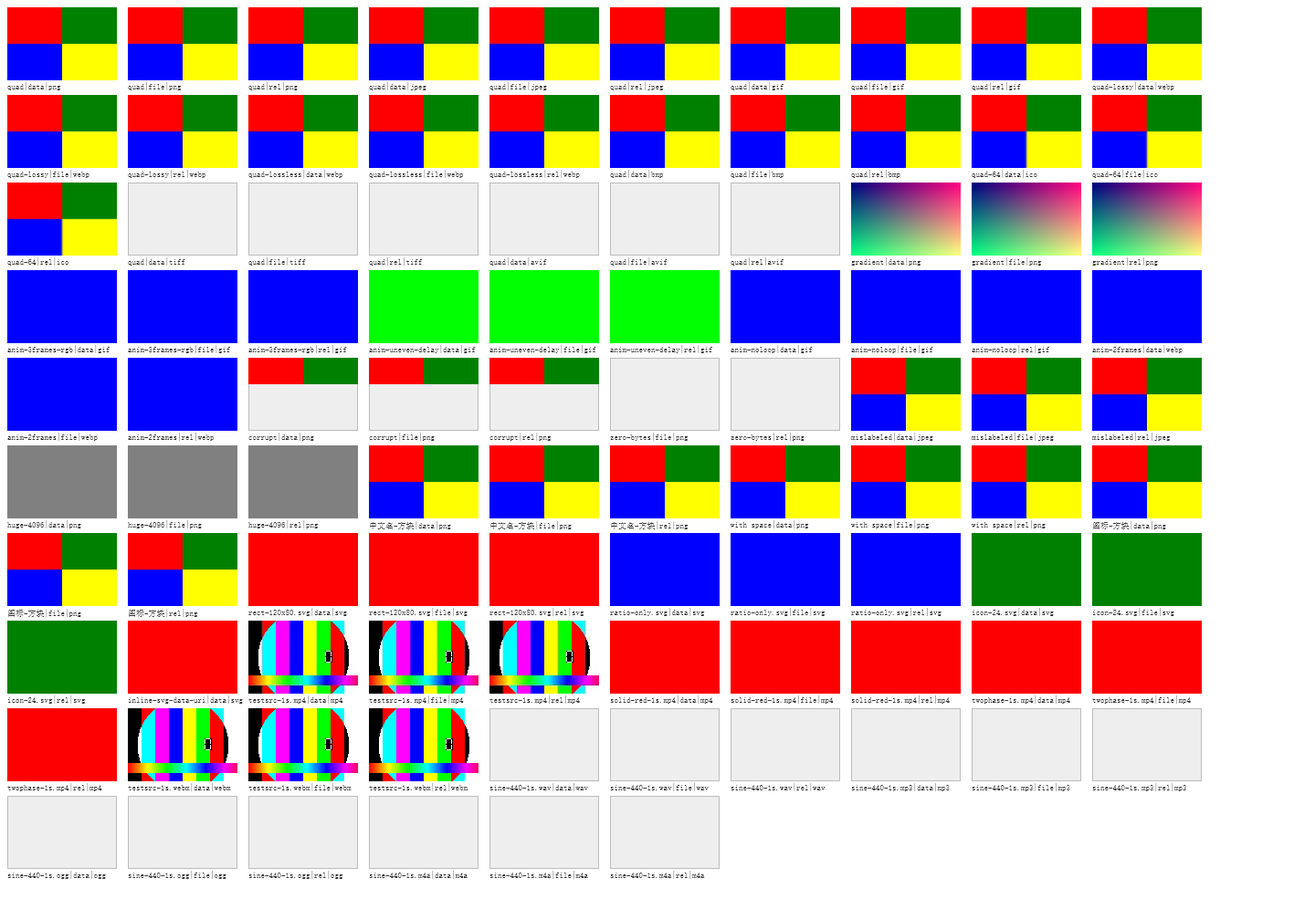
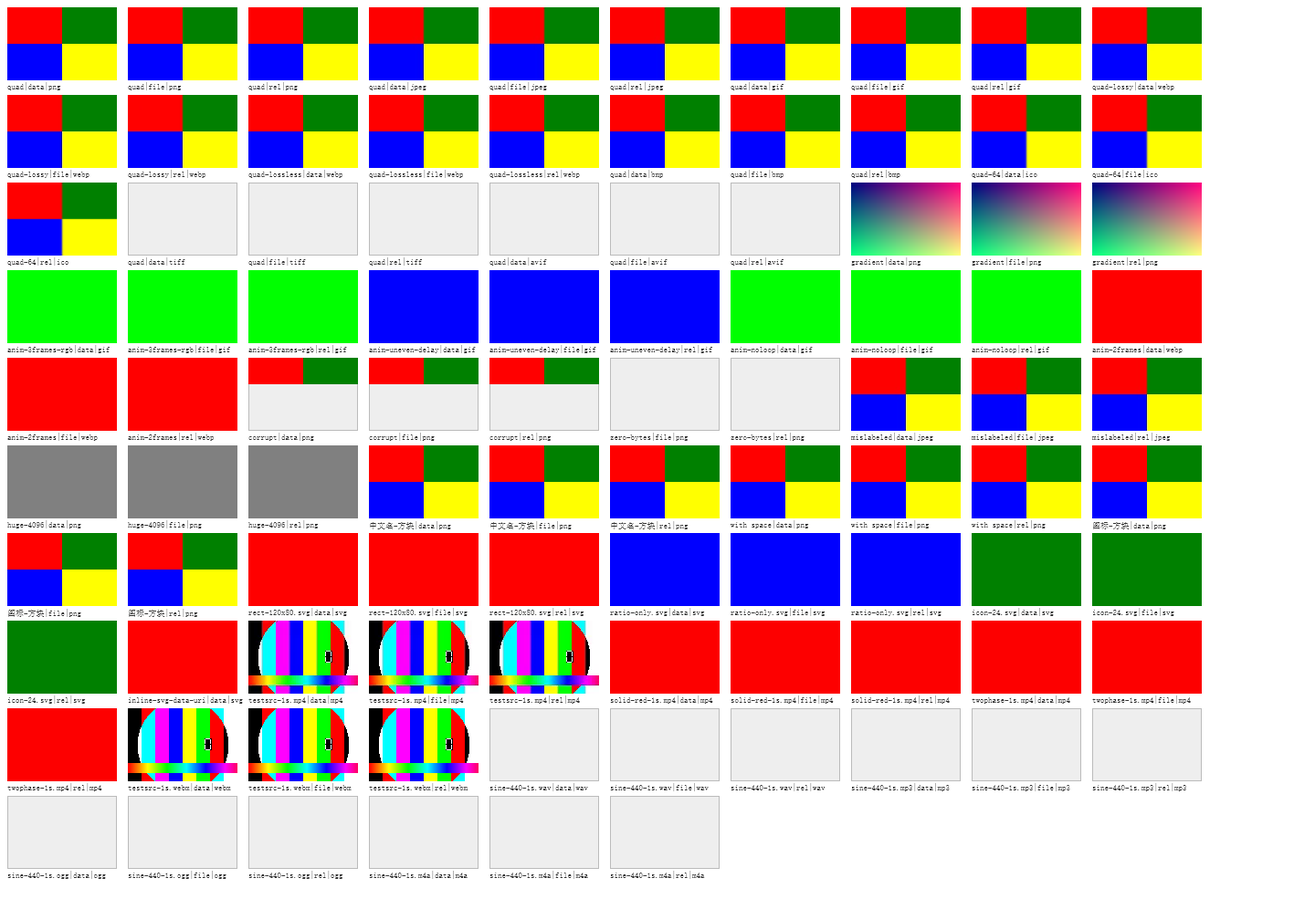
产物入库口径消解 + 媒体验证证据入库（决策 5 修订）：含运行抖动数值
## 1. 消解「文档说不入库、git 却跟踪」的两义状态（决策 5 二选一）

裁定：**样本不入库；报告与四配置截图（含几何/基线）作为验收证据入库**。

证据链（全部可核查）：
- 时间线：`896c670`(04:43) 在文档写入「报告仅作本地产物、仓库不动」；**43 分钟后**的
  `c5fe57d`(05:26) 实际把报告 + 四配置截图 + 逐格几何入库，并开 `.gitignore` 例外，提交信息
  明确把「决策 5」限定给**样本**（「样本本地生成不入库，决策 5」+「out/：…（证据入库）」）。
- 此后 20+ 次产物提交（7d03ede/81b2e1d/33a1062/0f4cd10/16daf3c/309d7a4…）沿用同一口径。
- 即：§0.1 的「报告仓库不动」**从未被执行过一次**，而「报告/截图/基线入库」被执行了 20+ 次。
- 理由：§6.3 证据纪律要求「每条用例留下几何 JSON + 截图 + 事件计数」，这些产物即判定依据，
  不入库则等级判定不可复核；样本是可再生的中间物（固定参数 + 入库脚本即可复现），故样本不入库。

文档同步修正 **13 处**（§0.1 决策 5 行、§9.1 修订注、§3.4、§6.2 第 1 条、§6.4 第 2/5 条、§8.2 阶段 0、
§8.3 两处、§10 的 Q1 行与「丙10」条目、附录注），`.gitignore` 注释同步。
验收：旧措辞逐条 grep = 0（「报告产物到 dev/media/out/（同样忽略）」「报告为本地产物（不入库…）」
「报告与四配置截图同为本地生成产物、不入库」「本地产物，不入库」「报告仅作本地产物，仓库不动」）。

## 2. ⚠ 副作用实测：重跑必产生 diff（提交时知情）

- **报告数值**：重跑 628 行中 **140 行变化** = 报告头 4（日期/commit）+ 播放时钟 122（描述行 60 +
  判据表 62）+ 像素比例 2 + 环回 4 = 抖动 132；另 **8 行是 Q7-B 备注修正的真实内容变化**
  （corrupt.png / zero-bytes.png 归因）。
- **截图像素**：`matrix-Browser.png` / `matrix-Toolkit-DenyExternal.png` 各 **1.98%**、
  两张播放态各 **5.95%**，最大通道差 **255**（整格换色）。
- **根因（本轮新发现）**：逐格定位后，差异格 = `anim-uneven-delay|{data,file,rel}|gif` 等**动画格**，
  即 §9.9 的**动图采样伪影**——当前采样为全局固定步长，与各动图自身帧时长不同步，每次截到不同帧。
  **非解码缺陷**（同页 `quad.*` 等静止样本逐像素不变）。此发现把 Q7-C 的影响面从报告数值
  扩大到截图产物本身。

## 3. 本轮产物

- `dev/media/out/report.md`：`cmd/psai -media` 重跑，**与基线一致（无等级下降）**；含 Q7-B 备注修正
  （`DenyExternal × file/rel` 的 corrupt.png / zero-bytes.png 备注 → 「资源策略 deny-external 拒绝该引用
  （预期，非缺陷）」）。
[…]

Changed region(s): [[0.0, 0.2768, 0.9375, 0.4921]]

diff --git a/dev/media/out/report.md b/dev/media/out/report.md
@@ -1,8 +1,8 @@
-# 媒体格式真实可用性报告（2026-10-07 20:16 16daf3c）
+# 媒体格式真实可用性报告（2026-10-07 22:00 bc62320）
 
 ## 环境
 
-配置：Browser / Toolkit+DenyExternal / Toolkit+AllowHostResolved / Toolkit+AllowAll ｜ 引擎：16daf3c ｜ 样本：本地脚本生成、不入库（决策 5）｜ 模型：L0–L4（文档 §2）
+配置：Browser / Toolkit+DenyExternal / Toolkit+AllowHostResolved / Toolkit+AllowAll ｜ 引擎：bc62320 ｜ 样本：本地脚本生成、不入库（决策 5）｜ 模型：L0–L4（文档 §2）
 
 复现：`python dev/media/gen_samples.py` → `cmd/psai -media`（本机按需，不入 CI 门禁——决策 6）
 
@@ -66,11 +66,11 @@
 | Toolkit+AllowHostResolved | png | corrupt.png | data | ✅ | ✅ | ❌ | ✅ | — | **L0** | 失败路径：未绘制，但 onerror 未派发（契约缺陷） |
 | Toolkit+AllowAll | png | corrupt.png | data | ✅ | ✅ | ❌ | ✅ | — | **L0** | 失败路径：未绘制，但 onerror 未派发（契约缺陷） |
 | Browser | png | corrupt.png | file | ✅ | ✅ | ❌ | ✅ | — | **L0** | 失败路径：未绘制，但 onerror 未派发（契约缺陷） |
-| Toolkit+DenyExternal | png | corrupt.png | file | ❌ | ❌ | ❌ | ❌ | — | **L0** | 失败路径：未绘制，但 onerror 未派发（契约缺陷） |
+| Toolkit+DenyExternal | png | corrupt.png | file | ❌ | ❌ | ❌ | ❌ | — | **L0** | 资源策略 deny-external 拒绝该引用（预期，非缺陷） |
 | Toolkit+AllowHostResolved | png | corrupt.png | file | ✅ | ✅ | ❌ | ✅ | — | **L0** | 失败路径：未绘制，但 onerror 未派发（契约缺陷） |
 | Toolkit+AllowAll | png | corrupt.png | file | ✅ | ✅ | ❌ | ✅ | — | **L0** | 失败路径：未绘制，但 onerror 未派发（契约缺陷） |
 | Browser | png | corrupt.png | rel | ✅ | ✅ | ❌ | ✅ | — | **L0** | 失败路径：未绘制，但 onerror 未派发（契约缺陷） |
-| Toolkit+DenyExternal | png | corrupt.png | rel | ❌ | ❌ | ❌ | ❌ | — | **L0** | 失败路径：未绘制，但 onerror 未派发（契约缺陷） |
+| Toolkit+DenyExternal | png | corrupt.png | rel | ❌ | ❌ | ❌ | ❌ | — | **L0** | 资源策略 deny-external 拒绝该引用（预期，非缺陷） |
 | Toolkit+AllowHostResolved | png | corrupt.png | rel | ✅ | ✅ | ❌ | ✅ | — | **L0** | 失败路径：未绘制，但 onerror 未派发（契约缺陷） |
 | Toolkit+AllowAll | png | corrupt.png | rel | ✅ | ✅ | ❌ | ✅ | — | **L0** | 失败路径：未绘制，但 onerror 未派发（契约缺陷） |
 | Browser | png | gradient.png | data | ✅ | ✅ | ✅ | ✅ | — | **L3** |  |
@@ -257,54 +257,54 @@
 | Toolkit+DenyExternal | svg | rect-120x80.svg | rel | ❌ | ❌ | ❌ | ❌ | — | **L0** | 资源策略 deny-external 拒绝该引用（预期，非缺陷） |
 | Toolkit+AllowHostResolved | svg | rect-120x80.svg | rel | ✅ | ✅ | ✅ | ✅ | — | **L3** |  |
 | Toolkit+AllowAll | svg | rect-120x80.svg | rel | ✅ | ✅ | ✅ | ✅ | — | **L3** |  |
-| Browser | m4a | sine-440-1s.m4a | data | ✅ | ✅ | — | ✅ | — | **L4** | 音频输出：交付 49041 帧、PCM 主峰 439.88Hz（期望 440Hz，判据 A）；play() 后 500ms currentTime=0.31s、结束时 1.00s（TC-M-602） |
+| Browser | m4a | sine-440-1s.m4a | data | ✅ | ✅ | — | ✅ | — | **L4** | 音频输出：交付 49041 帧、PCM 主峰 439.88Hz（期望 440Hz，判据 A）；play() 后 500ms currentTime=0.47s、结束时 1.00s（TC-M-602） |
 | Toolkit+DenyExternal | m4a | sine-440-1s.m4a | data | ✅ | ✅ | — | ✅ | — | **L4** | 音频输出：交付 49041 帧、PCM 主峰 439.88Hz（期望 440Hz，判据 A）；play() 后 500ms currentTime=1.00s、结束时 1.00s（TC-M-602） |
-| Toolkit+AllowHostResolved | m4a | sine-440-1s.m4a | data | ✅ | ✅ | — | ✅ | — | **L4** | 音频输出：交付 49041 帧、PCM 主峰 439.88Hz（期望 440Hz，判据 A）；play() 后 500ms currentTime=0.25s、结束时 1.00s（TC-M-602） |
-| Toolkit+AllowAll | m4a | sine-440-1s.m4a | data | ✅ | ✅ | — | ✅ | — | **L4** | 音频输出：交付 49041 帧、PCM 主峰 439.88Hz（期望 440Hz，判据 A）；play() 后 500ms currentTime=0.26s、结束时 1.00s（TC-M-602） |
-| Browser | m4a | sine-440-1s.m4a | file | ✅ | ✅ | — | ✅ | — | **L4** | 音频输出：交付 49041 帧、PCM 主峰 439.88Hz（期望 440Hz，判据 A）；play() 后 500ms currentTime=0.21s、结束时 1.00s（TC-M-602） |
+| Toolkit+AllowHostResolved | m4a | sine-440-1s.m4a | data | ✅ | ✅ | — | ✅ | — | **L4** | 音频输出：交付 49041 帧、PCM 主峰 439.88Hz（期望 440Hz，判据 A）；play() 后 500ms currentTime=0.49s、结束时 1.00s（TC-M-602） |
+| Toolkit+AllowAll | m4a | sine-440-1s.m4a | data | ✅ | ✅ | — | ✅ | — | **L4** | 音频输出：交付 49041 帧、PCM 主峰 439.88Hz（期望 440Hz，判据 A）；play() 后 500ms currentTime=0.49s、结束时 1.00s（TC-M-602） |
+| Browser | m4a | sine-440-1s.m4a | file | ✅ | ✅ | — | ✅ | — | **L4** | 音频输出：交付 49041 帧、PCM 主峰 439.88Hz（期望 440Hz，判据 A）；play() 后 500ms currentTime=0.27s、结束时 1.00s（TC-M-602） |
 | Toolkit+DenyExternal | m4a | sine-440-1s.m4a | file | ❌ | ❌ | — | ❌ | — | **L0** | 资源策略 deny-external 拒绝该引用（预期，非缺陷）；实测元素 error.code=4（MEDIA_ERR_SRC_NOT_SUPPORTED） |
-| Toolkit+AllowHostResolved | m4a | sine-440-1s.m4a | file | ✅ | ✅ | — | ✅ | — | **L4** | 音频输出：交付 49041 帧、PCM 主峰 439.88Hz（期望 440Hz，判据 A）；play() 后 500ms currentTime=0.21s、结束时 1.00s（TC-M-602） |
-| Toolkit+AllowAll | m4a | sine-440-1s.m4a | file | ✅ | ✅ | — | ✅ | — | **L4** | 音频输出：交付 49041 帧、PCM 主峰 439.88Hz（期望 440Hz，判据 A）；play() 后 500ms currentTime=0.20s、结束时 1.00s（TC-M-602） |
+| Toolkit+AllowHostResolved | m4a | sine-440-1s.m4a | file | ✅ | ✅ | — | ✅ | — | **L4** | 音频输出：交付 49041 帧、PCM 主峰 439.88Hz（期望 440Hz，判据 A）；play() 后 500ms currentTime=0.26s、结束时 1.00s（TC-M-602） |
+| Toolkit+AllowAll | m4a | sine-440-1s.m4a | file | ✅ | ✅ | — | ✅ | — | **L4** | 音频输出：交付 49041 帧、PCM 主峰 439.88Hz（期望 440Hz，判据 A）；play() 后 500ms currentTime=0.29s、结束时 1.00s（TC-M-602） |
 | Browser | m4a | sine-440-1s.m4a | rel | ✅ | ✅ | — | ✅ | — | **L4** | 音频输出：交付 49041 帧、PCM 主峰 439.88Hz（期望 440Hz，判据 A）；play() 后 500ms currentTime=0.00s、结束时 1.00s（TC-M-602） |
 | Toolkit+DenyExternal | m4a | sine-440-1s.m4a | rel | ❌ | ❌ | — | ❌ | — | **L0** | 资源策略 deny-external 拒绝该引用（预期，非缺陷）；实测元素 error.code=4（MEDIA_ERR_SRC_NOT_SUPPORTED） |
 | Toolkit+AllowHostResolved | m4a | sine-440-1s.m4a | rel | ✅ | ✅ | — | ✅ | — | **L4** | 音频输出：交付 49041 帧、PCM 主峰 439.88Hz（期望 440Hz，判据 A）；play() 后 500ms currentTime=0.00s、结束时 1.00s（TC-M-602） |
 | Toolkit+AllowAll | m4a | sine-440-1s.m4a | rel | ✅ | ✅ | — | ✅ | — | **L4** | 音频输出：交付 49041 帧、PCM 主峰 439.88Hz（期望 440Hz，判据 A）；play() 后 500ms currentTime=0.00s、结束时 1.00s（TC-M-602） |
-| Browser | mp3 | sine-440-1s.mp3 | data | ✅ | ✅ | — | ✅ | — | **L4** | 音频输出：交付 48000 帧、PCM 主峰 439.88Hz（期望 440Hz，判据 A）；play() 后 500ms currentTime=0.82s、结束时 1.00s（TC-M-602） |
+| Browser | mp3 | sine-440-1s.mp3 | data | ✅ | ✅ | — | ✅ | — | **L4** | 音频输出：交付 48000 帧、PCM 主峰 439.88Hz（期望 440Hz，判据 A）；play() 后 500ms currentTime=1.00s、结束时 1.00s（TC-M-602） |
 | Toolkit+DenyExternal | mp3 | sine-440-1s.mp3 | data | ✅ | ✅ | — | ✅ | — | **L4** | 音频输出：交付 48000 帧、PCM 主峰 439.88Hz（期望 440Hz，判据 A）；play() 后 500ms currentTime=1.00s、结束时 1.00s（TC-M-602） |
-| Toolkit+AllowHostResolved | mp3 | sine-440-1s.mp3 | data | ✅ | ✅ | — | ✅ | — | **L4** | 音频输出：交付 48000 帧、PCM 主峰 439.88Hz（期望 440Hz，判据 A）；play() 后 500ms currentTime=0.76s、结束时 1.00s（TC-M-602） |
-| Toolkit+AllowAll | mp3 | sine-440-1s.mp3 | data | ✅ | ✅ | — | ✅ | — | **L4** | 音频输出：交付 48000 帧、PCM 主峰 439.88Hz（期望 440Hz，判据 A）；play() 后 500ms currentTime=0.76s、结束时 1.00s（TC-M-602） |
-| Browser | mp3 | sine-440-1s.mp3 | file | ✅ | ✅ | — | ✅ | — | **L4** | 音频输出：交付 48000 帧、PCM 主峰 439.88Hz（期望 440Hz，判据 A）；play() 后 500ms currentTime=0.73s、结束时 1.00s（TC-M-602） |
+| Toolkit+AllowHostResolved | mp3 | sine-440-1s.mp3 | data | ✅ | ✅ | — | ✅ | — | **L4** | 音频输出：交付 48000 帧、PCM 主峰 439.88Hz（期望 440Hz，判据 A）；play() 后 500ms currentTime=1.00s、结束时 1.00s（TC-M-602） |
+| Toolkit+AllowAll | mp3 | sine-440-1s.mp3 | data | ✅ | ✅ | — | ✅ | — | **L4** | 音频输出：交付 48000 帧、PCM 主峰 439.88Hz（期望 440Hz，判据 A）；play() 后 500ms currentTime=1.00s、结束时 1.00s（TC-M-602） |
+| Browser | mp3 | sine-440-1s.mp3 | file | ✅ | ✅ | — | ✅ | — | **L4** | 音频输出：交付 48000 帧、PCM 主峰 439.88Hz（期望 440Hz，判据 A）；play() 后 500ms currentTime=1.00s、结束时 1.00s（TC-M-602） |
 | Toolkit+DenyExternal | mp3 | sine-440-1s.mp3 | file | ❌ | ❌ | — | ❌ | — | **L0** | 资源策略 deny-external 拒绝该引用（预期，非缺陷）；实测元素 error.code=4（MEDIA_ERR_SRC_NOT_SUPPORTED） |
-| Toolkit+AllowHostResolved | mp3 | sine-440-1s.mp3 | file | ✅ | ✅ | — | ✅ | — | **L4** | 音频输出：交付 48000 帧、PCM 主峰 439.88Hz（期望 440Hz，判据 A）；play() 后 500ms currentTime=0.68s、结束时 1.00s（TC-M-602） |
-| Toolkit+AllowAll | mp3 | sine-440-1s.mp3 | file | ✅ | ✅ | — | ✅ | — | **L4** | 音频输出：交付 48000 帧、PCM 主峰 439.88Hz（期望 440Hz，判据 A）；play() 后 500ms currentTime=0.69s、结束时 1.00s（TC-M-602） |
-| Browser | mp3 | sine-440-1s.mp3 | rel | ✅ | ✅ | — | ✅ | — | **L4** | 音频输出：交付 48000 帧、PCM 主峰 439.88Hz（期望 440Hz，判据 A）；play() 后 500ms currentTime=0.65s、结束时 1.00s（TC-M-602） |
+| Toolkit+AllowHostResolved | mp3 | sine-440-1s.mp3 | file | ✅ | ✅ | — | ✅ | — | **L4** | 音频输出：交付 48000 帧、PCM 主峰 439.88Hz（期望 440Hz，判据 A）；play() 后 500ms currentTime=1.00s、结束时 1.00s（TC-M-602） |
+| Toolkit+AllowAll | mp3 | sine-440-1s.mp3 | file | ✅ | ✅ | — | ✅ | — | **L4** | 音频输出：交付 48000 帧、PCM 主峰 439.88Hz（期望 440Hz，判据 A）；play() 后 500ms currentTime=1.00s、结束时 1.00s（TC-M-602） |
+| Browser | mp3 | sine-440-1s.mp3 | rel | ✅ | ✅ | — | ✅ | — | **L4** | 音频输出：交付 48000 帧、PCM 主峰 439.88Hz（期望 440Hz，判据 A）；play() 后 500ms currentTime=1.00s、结束时 1.00s（TC-M-602） |
 | Toolkit+DenyExternal | mp3 | sine-440-1s.mp3 | rel | ❌ | ❌ | — | ❌ | — | **L0** | 资源策略 deny-external 拒绝该引用（预期，非缺陷）；实测元素 error.code=4（MEDIA_ERR_SRC_NOT_SUPPORTED） |
-| Toolkit+AllowHostResolved | mp3 | sine-440-1s.mp3 | rel | ✅ | ✅ | — | ✅ | — | **L4** | 音频输出：交付 48000 帧、PCM 主峰 439.88Hz（期望 440Hz，判据 A）；play() 后 500ms currentTime=0.60s、结束时 1.00s（TC-M-602） |
-| Toolkit+AllowAll | mp3 | sine-440-1s.mp3 | rel | ✅ | ✅ | — | ✅ | — | **L4** | 音频输出：交付 48000 帧、PCM 主峰 439.88Hz（期望 440Hz，判据 A）；play() 后 500ms currentTime=0.61s、结束时 1.00s（TC-M-602） |
-| Browser | ogg | sine-440-1s.ogg | data | ✅ | ✅ | — | ✅ | — | **L4** | 音频输出：交付 47861 帧、PCM 主峰 439.87Hz（期望 440Hz，判据 A）；play() 后 500ms currentTime=0.56s、结束时 1.00s（TC-M-602） |
+| Toolkit+AllowHostResolved | mp3 | sine-440-1s.mp3 | rel | ✅ | ✅ | — | ✅ | — | **L4** | 音频输出：交付 48000 帧、PCM 主峰 439.88Hz（期望 440Hz，判据 A）；play() 后 500ms currentTime=1.00s、结束时 1.00s（TC-M-602） |
+| Toolkit+AllowAll | mp3 | sine-440-1s.mp3 | rel | ✅ | ✅ | — | ✅ | — | **L4** | 音频输出：交付 48000 帧、PCM 主峰 439.88Hz（期望 440Hz，判据 A）；play() 后 500ms currentTime=1.00s、结束时 1.00s（TC-M-602） |
+| Browser | ogg | sine-440-1s.ogg | data | ✅ | ✅ | — | ✅ | — | **L4** | 音频输出：交付 47861 帧、PCM 主峰 439.87Hz（期望 440Hz，判据 A）；play() 后 500ms currentTime=1.00s、结束时 1.00s（TC-M-602） |
 | Toolkit+DenyExternal | ogg | sine-440-1s.ogg | data | ✅ | ✅ | — | ✅ | — | **L4** | 音频输出：交付 47861 帧、PCM 主峰 439.87Hz（期望 440Hz，判据 A）；play() 后 500ms currentTime=1.00s、结束时 1.00s（TC-M-602） |
-| Toolkit+AllowHostResolved | ogg | sine-440-1s.ogg | data | ✅ | ✅ | — | ✅ | — | **L4** | 音频输出：交付 47861 帧、PCM 主峰 439.87Hz（期望 440Hz，判据 A）；play() 后 500ms currentTime=0.52s、结束时 1.00s（TC-M-602） |
-| Toolkit+AllowAll | ogg | sine-440-1s.ogg | data | ✅ | ✅ | — | ✅ | — | **L4** | 音频输出：交付 47861 帧、PCM 主峰 439.87Hz（期望 440Hz，判据 A）；play() 后 500ms currentTime=0.54s、结束时 1.00s（TC-M-602） |
-| Browser | ogg | sine-440-1s.ogg | file | ✅ | ✅ | — | ✅ | — | **L4** | 音频输出：交付 47861 帧、PCM 主峰 439.87Hz（期望 440Hz，判据 A）；play() 后 500ms currentTime=0.46s、结束时 1.00s（TC-M-602） |
+| Toolkit+AllowHostResolved | ogg | sine-440-1s.ogg | data | ✅ | ✅ | — | ✅ | — | **L4** | 音频输出：交付 47861 帧、PCM 主峰 439.87Hz（期望 440Hz，判据 A）；play() 后 500ms currentTime=1.00s、结束时 1.00s（TC-M-602） |
+| Toolkit+AllowAll | ogg | sine-440-1s.ogg | data | ✅ | ✅ | — | ✅ | — | **L4** | 音频输出：交付 47861 帧、PCM 主峰 439.87Hz（期望 440Hz，判据 A）；play() 后 500ms currentTime=1.00s、结束时 1.00s（TC-M-602） |
+| Browser | ogg | sine-440-1s.ogg | file | ✅ | ✅ | — | ✅ | — | **L4** | 音频输出：交付 47861 帧、PCM 主峰 439.87Hz（期望 440Hz，判据 A）；play() 后 500ms currentTime=0.82s、结束时 1.00s（TC-M-602） |
 | Toolkit+DenyExternal | ogg | sine-440-1s.ogg | file | ❌ | ❌ | — | ❌ | — | **L0** | 资源策略 deny-external 拒绝该引用（预期，非缺陷）；实测元素 error.code=4（MEDIA_ERR_SRC_NOT_SUPPORTED） |
-| Toolkit+AllowHostResolved | ogg | sine-440-1s.ogg | file | ✅ | ✅ | — | ✅ | — | **L4** | 音频输出：交付 47861 帧、PCM 主峰 439.87Hz（期望 440Hz，判据 A）；play() 后 500ms currentTime=0.44s、结束时 1.00s（TC-M-602） |
-| Toolkit+AllowAll | ogg | sine-440-1s.ogg | file | ✅ | ✅ | — | ✅ | — | **L4** | 音频输出：交付 47861 帧、PCM 主峰 439.87Hz（期望 440Hz，判据 A）；play() 后 500ms currentTime=0.45s、结束时 1.00s（TC-M-602） |
-| Browser | ogg | sine-440-1s.ogg | rel | ✅ | ✅ | — | ✅ | — | **L4** | 音频输出：交付 47861 帧、PCM 主峰 439.87Hz（期望 440Hz，判据 A）；play() 后 500ms currentTime=0.38s、结束时 1.00s（TC-M-602） |
+| Toolkit+AllowHostResolved | ogg | sine-440-1s.ogg | file | ✅ | ✅ | — | ✅ | — | **L4** | 音频输出：交付 47861 帧、PCM 主峰 439.87Hz（期望 440Hz，判据 A）；play() 后 500ms currentTime=0.90s、结束时 1.00s（TC-M-602） |
+| Toolkit+AllowAll | ogg | sine-440-1s.ogg | file | ✅ | ✅ | — | ✅ | — | **L4** | 音频输出：交付 47861 帧、PCM 主峰 439.87Hz（期望 440Hz，判据 A）；play() 后 500ms currentTime=0.91s、结束时 1.00s（TC-M-602） |
+| Browser | ogg | sine-440-1s.ogg | rel | ✅ | ✅ | — | ✅ | — | **L4** | 音频输出：交付 47861 帧、PCM 主峰 439.87Hz（期望 440Hz，判据 A）；play() 后 500ms currentTime=0.66s、结束时 1.00s（TC-M-602） |
 | Toolkit+DenyExternal | ogg | sine-440-1s.ogg | rel | ❌ | ❌ | — | ❌ | — | **L0** | 资源策略 deny-external 拒绝该引用（预期，非缺陷）；实测元素 error.code=4（MEDIA_ERR_SRC_NOT_SUPPORTED） |
-| Toolkit+AllowHostResolved | ogg | sine-440-1s.ogg | rel | ✅ | ✅ | — | ✅ | — | **L4** | 音频输出：交付 47861 帧、PCM 主峰 439.87Hz（期望 440Hz，判据 A）；play() 后 500ms currentTime=0.37s、结束时 1.00s（TC-M-602） |
-| Toolkit+AllowAll | ogg | sine-440-1s.ogg | rel | ✅ | ✅ | — | ✅ | — | **L4** | 音频输出：交付 47861 帧、PCM 主峰 439.87Hz（期望 440Hz，判据 A）；play() 后 500ms currentTime=0.37s、结束时 1.00s（TC-M-602） |
+| Toolkit+AllowHostResolved | ogg | sine-440-1s.ogg | rel | ✅ | ✅ | — | ✅ | — | **L4** | 音频输出：交付 47861 帧、PCM 主峰 439.87Hz（期望 440Hz，判据 A）；play() 后 500ms currentTime=0.71s、结束时 1.00s（TC-M-602） |
+| Toolkit+AllowAll | ogg | sine-440-1s.ogg | rel | ✅ | ✅ | — | ✅ | — | **L4** | 音频输出：交付 47861 帧、PCM 主峰 439.87Hz（期望 440Hz，判据 A）；play() 后 500ms currentTime=0.72s、结束时 1.00s（TC-M-602） |
 | Browser | wav | sine-440-1s.wav | data | ✅ | ✅ | — | ✅ | — | **L4** | 音频输出：交付 48000 帧、PCM 主峰 439.88Hz（期望 440Hz，判据 A）；play() 后 500ms currentTime=1.00s、结束时 1.00s（TC-M-602） |
 | Toolkit+DenyExternal | wav | sine-440-1s.wav | data | ✅ | ✅ | — | ✅ | — | **L4** | 音频输出：交付 48000 帧、PCM 主峰 439.88Hz（期望 440Hz，判据 A）；play() 后 500ms currentTime=1.00s、结束时 1.00s（TC-M-602） |
 | Toolkit+AllowHostResolved | wav | sine-440-1s.wav | data | ✅ | ✅ | — | ✅ | — | **L4** | 音频输出：交付 48000 帧、PCM 主峰 439.88Hz（期望 440Hz，判据 A）；play() 后 500ms currentTime=1.00s、结束时 1.00s（TC-M-602） |
 | Toolkit+AllowAll | wav | sine-440-1s.wav | data | ✅ | ✅ | — | ✅ | — | **L4** | 音频输出：交付 48000 帧、PCM 主峰 439.88Hz（期望 440Hz，判据 A）；play() 后 500ms currentTime=1.00s、结束时 1.00s（TC-M-602） |
-| Browser | wav | sine-440-1s.wav | file | ✅ | ✅ | — | ✅ | — | **L4** | 音频输出：交付 48000 帧、PCM 主峰 439.88Hz（期望 440Hz，判据 A）；play() 后 500ms currentTime=0.98s、结束时 1.00s（TC-M-602） |
+| Browser | wav | sine-440-1s.wav | file | ✅ | ✅ | — | ✅ | — | **L4** | 音频输出：交付 48000 帧、PCM 主峰 439.88Hz（期望 440Hz，判据 A）；play() 后 500ms currentTime=1.00s、结束时 1.00s（TC-M-602） |
 | Toolkit+DenyExternal | wav | sine-440-1s.wav | file | ❌ | ❌ | — | ❌ | — | **L0** | 资源策略 deny-external 拒绝该引用（预期，非缺陷）；实测元素 error.code=4（MEDIA_ERR_SRC_NOT_SUPPORTED） |
-| Toolkit+AllowHostResolved | wav | sine-440-1s.wav | file | ✅ | ✅ | — | ✅ | — | **L4** | 音频输出：交付 48000 帧、PCM 主峰 439.88Hz（期望 440Hz，判据 A）；play() 后 500ms currentTime=0.92s、结束时 1.00s（TC-M-602） |
-| Toolkit+AllowAll | wav | sine-440-1s.wav | file | ✅ | ✅ | — | ✅ | — | **L4** | 音频输出：交付 48000 帧、PCM 主峰 439.88Hz（期望 440Hz，判据 A）；play() 后 500ms currentTime=0.91s、结束时 1.00s（TC-M-602） |
-| Browser | wav | sine-440-1s.wav | rel | ✅ | ✅ | — | ✅ | — | **L4** | 音频输出：交付 48000 帧、PCM 主峰 439.88Hz（期望 440Hz，判据 A）；play() 后 500ms currentTime=0.90s、结束时 1.00s（TC-M-602） |
+| Toolkit+AllowHostResolved | wav | sine-440-1s.wav | file | ✅ | ✅ | — | ✅ | — | **L4** | 音频输出：交付 48000 帧、PCM 主峰 439.88Hz（期望 440Hz，判据 A）；play() 后 500ms currentTime=1.00s、结束时 1.00s（TC-M-602） |
+| Toolkit+AllowAll | wav | sine-440-1s.wav | file | ✅ | ✅ | — | ✅ | — | **L4** | 音频输出：交付 48000 帧、PCM 主峰 439.88Hz（期望 440Hz，判据 A）；play() 后 500ms currentTime=1.00s、结束时 1.00s（TC-M-602） |
+| Browser | wav | sine-440-1s.wav | rel | ✅ | ✅ | — | ✅ | — | **L4** | 音频输出：交付 48000 帧、PCM 主峰 439.88Hz（期望 440Hz，判据 A）；play() 后 500ms currentTime=1.00s、结束时 1.00s（TC-M-602） |
 | Toolkit+DenyExternal | wav | sine-440-1s.wav | rel | ❌ | ❌ | — | ❌ | — | **L0** | 资源策略 deny-external 拒绝该引用（预期，非缺陷）；实测元素 error.code=4（MEDIA_ERR_SRC_NOT_SUPPORTED） |
-| Toolkit+AllowHostResolved | wav | sine-440-1s.wav | rel | ✅ | ✅ | — | ✅ | — | **L4** | 音频输出：交付 48000 帧、PCM 主峰 439.88Hz（期望 440Hz，判据 A）；play() 后 500ms currentTime=0.84s、结束时 1.00s（TC-M-602） |
-| Toolkit+AllowAll | wav | sine-440-1s.wav | rel | ✅ | ✅ | — | ✅ | — | **L4** | 音频输出：交付 48000 帧、PCM 主峰 439.88Hz（期望 440Hz，判据 A）；play() 后 500ms currentTime=0.84s、结束时 1.00s（TC-M-602） |
+| Toolkit+AllowHostResolved | wav | sine-440-1s.wav | rel | ✅ | ✅ | — | ✅ | — | **L4** | 音频输出：交付 48000 帧、PCM 主峰 439.88Hz（期望 440Hz，判据 A）；play() 后 500ms currentTime=1.00s、结束时 1.00s（TC-M-602） |
+| Toolkit+AllowAll | wav | sine-440-1s.wav | rel | ✅ | ✅ | — | ✅ | — | **L4** | 音频输出：交付 48000 帧、PCM 主峰 439.88Hz（期望 440Hz，判据 A）；play() 后 500ms currentTime=1.00s、结束时 1.00s（TC-M-602） |
 | Browser | mp4 | solid-red-1s.mp4 | data | ✅ | ✅ | ✅ | ✅ | ❌ | **L3** | 单色视频：帧色恒定，动画判据不适用（画面正确即足）；所有帧采样点相同（最大差异 0，共 14 帧） |
 | Toolkit+DenyExternal | mp4 | solid-red-1s.mp4 | data | ✅ | ✅ | ✅ | ✅ | ❌ | **L3** | 单色视频：帧色恒定，动画判据不适用（画面正确即足）；所有帧采样点相同（最大差异 0，共 14 帧） |
 | Toolkit+AllowHostResolved | mp4 | solid-red-1s.mp4 | data | ✅ | ✅ | ✅ | ✅ | ❌ | **L3** | 单色视频：帧色恒定，动画判据不适用（画面正确即足）；所有帧采样点相同（最大差异 0，共 14 帧） |
@@ -366,11 +366,11 @@
 | Toolkit+AllowHostResolved | png | with space.png | rel | ✅ | ✅ | ✅ | ✅ | — | **L3** |  |
 | Toolkit+AllowAll | png | with space.png | rel | ✅ | ✅ | ✅ | ✅ | — | **L3** |  |
 | Browser | png | zero-bytes.png | file | ❌ | ❌ | ❌ | ❌ | — | **L0** | 失败路径：未绘制 + onerror 已派发（契约正确） |
-| Toolkit+DenyExternal | png | zero-bytes.png | file | ❌ | ❌ | ❌ | ❌ | — | **L0** | 失败路径：未绘制，但 onerror 未派发（契约缺陷） |
+| Toolkit+DenyExternal | png | zero-bytes.png | file | ❌ | ❌ | ❌ | ❌ | — | **L0** | 资源策略 deny-external 拒绝该引用（预期，非缺陷） |
 | Toolkit+AllowHostResolved | png | zero-bytes.png | file | ❌ | ❌ | ❌ | ❌ | — | **L0** | 失败路径：未绘制 + onerror 已派发（契约正确） |
 | Toolkit+AllowAll | png | zero-bytes.png | file | ❌ | ❌ | ❌ | ❌ | — | **L0** | 失败路径：未绘制 + onerror 已派发（契约正确） |
 | Browser | png | zero-bytes.png | rel | ❌ | ❌ | ❌ | ❌ | — | **L0** | 失败路径：未绘制 + onerror 已派发（契约正确） |
-| Toolkit+DenyExternal | png | zero-bytes.png | rel | ❌ | ❌ | ❌ | ❌ | — | **L0** | 失败路径：未绘制，但 onerror 未派发（契约缺陷） |
+| Toolkit+DenyExternal | png | zero-bytes.png | rel | ❌ | ❌ | ❌ | ❌ | — | **L0** | 资源策略 deny-external 拒绝该引用（预期，非缺陷） |
 | Toolkit+AllowHostResolved | png | zero-bytes.png | rel | ❌ | ❌ | ❌ | ❌ | — | **L0** | 失败路径：未绘制 + onerror 已派发（契约正确） |
 | Toolkit+AllowAll | png | zero-bytes.png | rel | ❌ | ❌ | ❌ | ❌ | — | **L0** | 失败路径：未绘制 + onerror 已派发（契约正确） |
 | Browser | png | 中文名-方块.png | data | ✅ | ✅ | ✅ | ✅ | — | **L3** |  |
@@ -479,7 +479,7 @@
 
 ## 策略一致性（决策 1 · TC-M-905）
 
-- 全图差异像素比例：**3.9683%**（其中 12 个动画样本格未计入下方判定）
+- 全图差异像素比例：**5.9524%**（其中 12 个动画样本格未计入下方判定）
 - 排除动画样本格后：**0.0000%** —— ✅ 非动画区域逐像素一致
 
 > **归因**：全图差异 **100% 落在动画样本格内**（`anim-noloop.gif`、`anim-2frames.webp` 等）——
@@ -550,8 +550,8 @@
 
 - 设备：Voicemeeter Out B3 (VB-Audio Voicemeeter VAIO)
 - 结果：**mismatch**
-- 录回音频主峰：4634.8 Hz（幅度 0.032）
-- 说明：主峰 4634.8Hz 偏离期望 440Hz（该设备的输入未路由到系统输出）
+- 录回音频主峰：99.6 Hz（幅度 0.201）
+- 说明：主峰 99.6Hz 偏离期望 440Hz（该设备的输入未路由到系统输出）
 
 ### TC-M-602 定点：播放时钟（音频为主时钟）
 
@@ -562,16 +562,16 @@
 | 配置 | 样本 | 来源 | 采样点（首块后 s） | currentTime | 期望 | 结束 currentTime | 判定 |
 |---|---|---|---|---|---|---|---|
 | Browser | sine-440-1s.wav | data | 1.00 | 1.00 | 1.00 | 1.00 | ✅ |
-| Browser | sine-440-1s.wav | file | 1.00 | 0.98 | 1.00 | 1.00 | ✅ |
-| Browser | sine-440-1s.wav | rel | 0.96 | 0.90 | 0.96 | 1.00 | ✅ |
-| Browser | sine-440-1s.mp3 | data | 0.88 | 0.82 | 0.88 | 1.00 | ✅ |
-| Browser | sine-440-1s.mp3 | file | 0.79 | 0.73 | 0.79 | 1.00 | ✅ |
-| Browser | sine-440-1s.mp3 | rel | 0.71 | 0.65 | 0.71 | 1.00 | ✅ |
-| Browser | sine-440-1s.ogg | data | 0.62 | 0.56 | 0.62 | 1.00 | ✅ |
-| Browser | sine-440-1s.ogg | file | 0.52 | 0.46 | 0.52 | 1.00 | ✅ |
-| Browser | sine-440-1s.ogg | rel | 0.44 | 0.38 | 0.44 | 1.00 | ✅ |
-| Browser | sine-440-1s.m4a | data | 0.35 | 0.31 | 0.35 | 1.00 | ✅ |
-| Browser | sine-440-1s.m4a | file | 0.26 | 0.21 | 0.26 | 1.00 | ✅ |
+| Browser | sine-440-1s.wav | file | 1.00 | 1.00 | 1.00 | 1.00 | ✅ |
+| Browser | sine-440-1s.wav | rel | 1.00 | 1.00 | 1.00 | 1.00 | ✅ |
+| Browser | sine-440-1s.mp3 | data | 1.00 | 1.00 | 1.00 | 1.00 | ✅ |
+| Browser | sine-440-1s.mp3 | file | 1.00 | 1.00 | 1.00 | 1.00 | ✅ |
+| Browser | sine-440-1s.mp3 | rel | 1.00 | 1.00 | 1.00 | 1.00 | ✅ |
+| Browser | sine-440-1s.ogg | data | 1.00 | 1.00 | 1.00 | 1.00 | ✅ |
+| Browser | sine-440-1s.ogg | file | 0.87 | 0.82 | 0.87 | 1.00 | ✅ |
+| Browser | sine-440-1s.ogg | rel | 0.71 | 0.66 | 0.71 | 1.00 | ✅ |
+| Browser | sine-440-1s.m4a | data | 0.52 | 0.47 | 0.52 | 1.00 | ✅ |
+| Browser | sine-440-1s.m4a | file | 0.33 | 0.27 | 0.33 | 1.00 | ✅ |
 | Browser | sine-440-1s.m4a | rel | 0.15 | 0.00 | 0.15 | 1.00 | ✅ |
 | Toolkit+DenyExternal | sine-440-1s.wav | data | 1.00 | 1.00 | 1.00 | 1.00 | ✅ |
 | Toolkit+DenyExternal | sine-440-1s.wav | file | 0.00 | 0.00 | 0.00 | 0.00 | — |
@@ -586,29 +586,29 @@
 | Toolkit+DenyExternal | sine-440-1s.m4a | file | 0.00 | 0.00 | 0.00 | 0.00 | — |
 | Toolkit+DenyExternal | sine-440-1s.m4a | rel | 0.00 | 0.00 | 0.00 | 0.00 | — |
 | Toolkit+AllowHostResolved | sine-440-1s.wav | data | 1.00 | 1.00 | 1.00 | 1.00 | ✅ |
-| Toolkit+AllowHostResolved | sine-440-1s.wav | file | 0.97 | 0.92 | 0.97 | 1.00 | ✅ |
-| Toolkit+AllowHostResolved | sine-440-1s.wav | rel | 0.88 | 0.84 | 0.88 | 1.00 | ✅ |
-| Toolkit+AllowHostResolved | sine-440-1s.mp3 | data | 0.80 | 0.76 | 0.80 | 1.00 | ✅ |
-| Toolkit+AllowHostResolved | sine-440-1s.mp3 | file | 0.72 | 0.68 | 0.72 | 1.00 | ✅ |
-| Toolkit+AllowHostResolved | sine-440-1s.mp3 | rel | 0.64 | 0.60 | 0.64 | 1.00 | ✅ |
-| Toolkit+AllowHostResolved | sine-440-1s.ogg | data | 0.56 | 0.52 | 0.56 | 1.00 | ✅ |
-| Toolkit+AllowHostResolved | sine-440-1s.ogg | file | 0.48 | 0.44 | 0.48 | 1.00 | ✅ |
-| Toolkit+AllowHostResolved | sine-440-1s.ogg | rel | 0.40 | 0.37 | 0.40 | 1.00 | ✅ |
-| Toolkit+AllowHostResolved | sine-440-1s.m4a | data | 0.32 | 0.25 | 0.32 | 1.00 | ✅ |
-| Toolkit+AllowHostResolved | sine-440-1s.m4a | file | 0.23 | 0.21 | 0.23 | 1.00 | ✅ |
+| Toolkit+AllowHostResolved | sine-440-1s.wav | file | 1.00 | 1.00 | 1.00 | 1.00 | ✅ |
+| Toolkit+AllowHostResolved | sine-440-1s.wav | rel | 1.00 | 1.00 | 1.00 | 1.00 | ✅ |
+| Toolkit+AllowHostResolved | sine-440-1s.mp3 | data | 1.00 | 1.00 | 1.00 | 1.00 | ✅ |
+| Toolkit+AllowHostResolved | sine-440-1s.mp3 | file | 1.00 | 1.00 | 1.00 | 1.00 | ✅ |
+| Toolkit+AllowHostResolved | sine-440-1s.mp3 | rel | 1.00 | 1.00 | 1.00 | 1.00 | ✅ |
+| Toolkit+AllowHostResolved | sine-440-1s.ogg | data | 1.00 | 1.00 | 1.00 | 1.00 | ✅ |
+| Toolkit+AllowHostResolved | sine-440-1s.ogg | file | 0.95 | 0.90 | 0.95 | 1.00 | ✅ |
+| Toolkit+AllowHostResolved | sine-440-1s.ogg | rel | 0.76 | 0.71 | 0.76 | 1.00 | ✅ |
+| Toolkit+AllowHostResolved | sine-440-1s.m4a | data | 0.54 | 0.49 | 0.54 | 1.00 | ✅ |
+| Toolkit+AllowHostResolved | sine-440-1s.m4a | file | 0.34 | 0.26 | 0.34 | 1.00 | ✅ |
 | Toolkit+AllowHostResolved | sine-440-1s.m4a | rel | 0.15 | 0.00 | 0.15 | 1.00 | ✅ |
 | Toolkit+AllowAll | sine-440-1s.wav | data | 1.00 | 1.00 | 1.00 | 1.00 | ✅ |
-| Toolkit+AllowAll | sine-440-1s.wav | file | 0.97 | 0.91 | 0.97 | 1.00 | ✅ |
-| Toolkit+AllowAll | sine-440-1s.wav | rel | 0.88 | 0.84 | 0.88 | 1.00 | ✅ |
-| Toolkit+AllowAll | sine-440-1s.mp3 | data | 0.80 | 0.76 | 0.80 | 1.00 | ✅ |
-| Toolkit+AllowAll | sine-440-1s.mp3 | file | 0.72 | 0.69 | 0.72 | 1.00 | ✅ |
-| Toolkit+AllowAll | sine-440-1s.mp3 | rel | 0.65 | 0.61 | 0.65 | 1.00 | ✅ |
-| Toolkit+AllowAll | sine-440-1s.ogg | data | 0.58 | 0.54 | 0.58 | 1.00 | ✅ |
-| Toolkit+AllowAll | sine-440-1s.ogg | file | 0.49 | 0.45 | 0.49 | 1.00 | ✅ |
-| Toolkit+AllowAll | sine-440-1s.ogg | rel | 0.41 | 0.37 | 0.41 | 1.00 | ✅ |
-| Toolkit+AllowAll | sine-440-1s.m4a | data | 0.32 | 0.26 | 0.32 | 1.00 | ✅ |
-| Toolkit+AllowAll | sine-440-1s.m4a | file | 0.24 | 0.20 | 0.24 | 1.00 | ✅ |
-| Toolkit+AllowAll | sine-440-1s.m4a | rel | 0.16 | 0.00 | 0.16 | 1.00 | ✅ |
+| Toolkit+AllowAll | sine-440-1s.wav | file | 1.00 | 1.00 | 1.00 | 1.00 | ✅ |
+| Toolkit+AllowAll | sine-440-1s.wav | rel | 1.00 | 1.00 | 1.00 | 1.00 | ✅ |
+| Toolkit+AllowAll | sine-440-1s.mp3 | data | 1.00 | 1.00 | 1.00 | 1.00 | ✅ |
+| Toolkit+AllowAll | sine-440-1s.mp3 | file | 1.00 | 1.00 | 1.00 | 1.00 | ✅ |
+| Toolkit+AllowAll | sine-440-1s.mp3 | rel | 1.00 | 1.00 | 1.00 | 1.00 | ✅ |
+| Toolkit+AllowAll | sine-440-1s.ogg | data | 1.00 | 1.00 | 1.00 | 1.00 | ✅ |
+| Toolkit+AllowAll | sine-440-1s.ogg | file | 0.96 | 0.91 | 0.96 | 1.00 | ✅ |
+| Toolkit+AllowAll | sine-440-1s.ogg | rel | 0.77 | 0.72 | 0.77 | 1.00 | ✅ |
+| Toolkit+AllowAll | sine-440-1s.m4a | data | 0.53 | 0.49 | 0.53 | 1.00 | ✅ |
+| Toolkit+AllowAll | sine-440-1s.m4a | file | 0.35 | 0.29 | 0.35 | 1.00 | ✅ |
+| Toolkit+AllowAll | sine-440-1s.m4a | rel | 0.15 | 0.00 | 0.15 | 1.00 | ✅ |
 
 > 容差 **±0.2s**（采样开销 + 设备启动延迟）。`data:` 来源没有本地路径（宿主解不了码），采样时无 PCM、时钟未起步——不在判据 A 的覆盖范围，保持 L1。
 

diff --git a/docs/media-format-verification-plan.md b/docs/media-format-verification-plan.md
@@ -57,11 +57,11 @@
 | 2 | 验证范围 | **纳入 Edge 双端对照**（复用 `dev/suites/consistency`） | 判定以「引擎 vs Edge」为准；无 Edge 环境时标 `SKIP(no-edge)`，不得默认通过 |
 | 3 | U4 动图路线 | **goskia 暴露 `SkCodec`**（通用，含 WebP 动画） | 需改 goskia 并推 main → wb-ui 更新 `go.mod` → 跨仓库版本联动（§8.2 阶段 2） |
 | 4 | 视频/音频目标 | **要真实播放**（宿主注入帧/音频流 或 内置 ffmpeg，单独立项） | U6/U7 从「明确不支持」升级为**阶段 3 实施项**；判定标准须覆盖 L4 |
-| 5 | 样本与产物入库 | **不提交**：样本本地生成，报告仅作本地产物，仓库不动 | 入库物只有**生成脚本与探针代码**；样本/报告目录进 `.gitignore` |
+| 5 | 样本与产物入库 | **样本不入库；报告与四配置截图入库**（⚠ 2026-10-07 修订，见 §6.2/§6.4） | 样本本地生成（`dev/media/samples/` 进 `.gitignore`）；报告、四配置截图、逐格几何作为**验收证据**入库（`.gitignore` 对 `dev/media/out/` 开例外）；基线 JSON 入库 |
 | 6 | 验证触发方式 | **不入 CI 门禁**（CI 属 git 自动 CI 范畴）——本方案交付**可复现的按需执行工装**（§6.4） | ⚠ **2026-10 修订**：原选「纳入 CI 自动门禁」，改判为不接 CI；不写接线脚本，本机按需执行 |
 
 > ✅ **原「决策 5 × 决策 6」冲突已消解**：决策 6 修订为「不入 CI 门禁」后，「CI 无样本可跑」的前提不再成立。
-> 决策 5 保持不变：入库物只有生成脚本与探针代码，样本/报告目录进 `.gitignore`，验证在本机按需执行（§6.4）。
+> ⚠ **决策 5 的产物口径 2026-10-07 修订**：原记「报告仅作本地产物、仓库不动」**与实施不符**——`c5fe57d`（2026-10-07 05:26）起报告 + 四配置截图 + 逐格几何已**实际入库**（`.gitignore` 对 `dev/media/out/` 开例外），此后 20+ 次产物提交沿用同一口径。经核查提交史与 §6.3 证据纪律，现采纳：**样本不入库（可再生中间物）；报告与四配置截图作为验收证据入库**。验证仍在本机按需执行（§6.4）；副作用（重跑必产生 diff）见 §6.2 第 1 条。
 
 ### 0.2 项目归属与范围划分（2026-10 新增）
 
@@ -218,9 +218,9 @@ webkit/mode.go:66                             allowsExternalURLs()
 
 工装：`python dev/media/gen_samples.py`（32 文件 + 1 内联条目 = 33 项样本）→ `cmd/psai -media`
 （四配置矩阵页 + L0–L4 判定 + Markdown 报告 + 基线比对；`-media-update-baseline` 更新期望表）。
-样本与矩阵页**不入库**（决策 5），**报告与四配置截图同为本地生成产物、不入库**——决策 5 的口径是
-「仓库不动」（§0.1、§9.1），§6.3 证据纪律要求的是「每条用例留下几何 JSON + 截图 + 事件计数」，
-**不要求**这些产物提交进仓库（与 §6.2 第 1 条、§6.4 第 5 条一致）。
+样本与矩阵页**不入库**（决策 5：样本是可再生的中间物）；**报告与四配置截图是验收证据、入库**——
+这是决策 5 经 2026-10-07 修订后的口径（§0.1、§6.2）：§6.3 证据纪律要求「每条用例留下几何 JSON +
+截图 + 事件计数」，这些产物即判定依据，须随仓库留存，否则判定不可复核。
 
 | 配置 | L0 | L1 | L2 | L3 | L4 |
 |---|---|---|---|---|---|
@@ -448,7 +448,16 @@ webkit/mode.go:66                             allowsExternalURLs()
 ### 6.2 待固化的工具（落地计划的一部分）
 
 1. **样本生成脚本（入库）** `dev/media/gen_samples.py`：PIL 生成 png/jpeg/gif(静态+动画)/webp/bmp/ico/tiff/avif/svg，ffmpeg 生成 mp4/webm/wav/mp3/ogg/m4a（各 1 秒 testsrc/sine）。
-   ★ **决策 5：脚本入库、样本不入库**——样本生成到 `dev/media/samples/`（进 `.gitignore`），报告产物到 `dev/media/out/`（同样忽略）。理由：样本随仓库走会让二进制长期堆积且难以更新；固定生成参数 + 入库脚本即可保证「同一份样本、可重复判定」。
+   ★ **决策 5（2026-10-07 修订）：脚本入库、样本不入库；报告与四配置截图作为验收证据入库**——样本生成到 `dev/media/samples/`（进 `.gitignore`）；报告、四配置静止/播放截图、逐格几何与基线生成到 `dev/media/out/`（`.gitignore` 对该目录**开例外**）。取舍理由：① 样本随仓库走会让二进制长期堆积且难以更新，而固定生成参数 + 入库脚本即可保证「同一份样本、可重复判定」，故样本不入库；② 报告/截图/几何是 §6.3 证据纪律所要求的判定依据，不入库则等级判定不可复核，故必须入库。
+   ⚠ **副作用（提交时必须知情；2026-10-07 实测）**：同一代码重跑**必产生 diff**，共两类——
+   ① **报告数值**：`report.md` 含 TC-M-602 的 `currentTime` 等采样数值。实测重跑 628 行中 **140 行变化**：
+   报告头 4 行（日期/commit）+ 播放时钟 122 行（描述行 60 + 判据表 62）+ 像素比对比例 2 行 + 环回录音 4 行
+   = 抖动 132 行，另 8 行是 Q7-B 备注修正的**真实内容变化**（`corrupt.png`/`zero-bytes.png` 归因）。
+   ② **截图像素**：`matrix-*.png` 中的**动画样本格**每次会截到不同帧。实测 `matrix-Browser.png` 与
+   `matrix-Toolkit-DenyExternal.png` 各 **1.98%** 像素变化，两张播放态各 **5.95%**，最大通道差 **255**
+   （整格换色）；经逐格定位，差异格正是 `anim-uneven-delay|data|file|rel|gif` 等**动画格**——即 §9.9 的
+   **动图采样伪影**，非解码缺陷（同页 `quad.*` 等静止样本逐像素不变）。
+   等级判定与基线比对（§6.4）不经这些数值/像素，**不受影响**；②在 Q7-C（按样本声明帧时长驱动采样）落地后应按帧收敛。
 2. **媒体验证子命令** `cmd/psai -media`（或新 `cmd/mediaprobe`）：
    - **四配置**（Browser / Toolkit+DenyExternal / Toolkit+AllowHostResolved / Toolkit+AllowAll）各跑一遍矩阵页，并与 **Edge 对照**（决策 2），产出「引擎 / Edge」双列等级；
    - 每格式产出：几何 JSON、`complete/naturalWidth`、事件日志、截图 PNG；
@@ -509,11 +518,12 @@ go test -count=1 $(go list ./... | grep -v 'dev/suites/consistency')
      **并不存在** —— 全仓检索无任何 `media` build tag。若需该形态属**未落地项**，当前一律用上一条入口。
 2. **样本准备（决策 5）**
    - 入库：`dev/media/gen_samples.py`、`-media` 探针、基线期望表（纯文本 JSON，几 KB）；
-   - 不入库：`dev/media/samples/`、`dev/media/out/`（写入 `.gitignore`）；
+   - 不入库：`dev/media/samples/`（样本，可再生中间物，写入 `.gitignore`）；
+   - 入库（验收证据，`.gitignore` 对 `out/` 开例外）：`dev/media/out/` 下的 `report.md`、四配置静止/播放截图 `matrix-*.png`、逐格几何 `geom-*.json`，以及基线 `dev/media/baseline.json`；
    - 执行前手动运行 `python dev/media/gen_samples.py --out dev/media/samples`（需 Pillow + ffmpeg）；缺 ffmpeg 时视音频用例标 `SKIP(no-ffmpeg)` 而非失败。
 3. **轻量纯逻辑单测（可选）**：策略开关、契约（`complete`/`naturalWidth`/事件）等纯逻辑单测不需真实渲染，本身即普通单元测试；**是否随 git 自动 CI 执行属 CI 范畴，本方案不做接线、不做承诺**。
 4. **Edge 对照降级**：无 Edge 环境时用 `-media -edge=false` 只跑引擎侧并标 `SKIP(no-edge)`；基线期望表记录「引擎等级」与「Edge 等级」两列，供人工比对。
-5. **报告去向**：报告为**本地产物**（不入库、不上传），供人工复核；需长期留存时由开发者自行归档。
+5. **报告去向**：报告与四配置截图**入库存档**（作为验收证据随仓库版本走），供人工复核；因含运行时抖动数值（§6.2 第 1 条），**重跑会产生 diff**，属预期而非回归。
 
 ---
 
@@ -569,8 +579,8 @@ D1 … （现象 / 证据文件 / 影响面 / 建议）
 ### 8.2 落地计划（分阶段，已按七项决策定型）
 
 **阶段 0：验证工装落地（决策 5/6；低风险）**
-- **入库**：`dev/media/gen_samples.py`（样本生成脚本）、`-media` 四配置探针、基线期望表（纯文本 JSON）；
-- **不入库**：`dev/media/samples/`、`dev/media/out/`（写入 `.gitignore`）；
+- **入库**：`dev/media/gen_samples.py`（样本生成脚本）、`-media` 四配置探针、基线期望表（纯文本 JSON）、`dev/media/out/` 下的报告与四配置截图（验收证据，`.gitignore` 开例外）；
+- **不入库**：`dev/media/samples/`（本地生成的样本，可再生，写入 `.gitignore`）；
 - **执行方式**：本机按需（`python dev/media/gen_samples.py` → `cmd/psai -media`），**不接 CI 门禁**（决策 6 修订，详见 §6.4）；
 - **归属**：本工装与等级验证属**独立媒体验证项目**，不在 AI-PS 项目内（§0.2）；
 - **产出**：全格式基线报告（A/B/C 三组 PNG + 新增 **D 组 = Toolkit+AllowHostResolved**）；
@@ -667,7 +677,7 @@ func (wv *WebView) SetResourcePolicy(p ResourcePolicy)
    **Edge 对照实测（2026-10-07 晚，Q1-B，「建议」列方案 B）**
 
    - **执行**：`cmd/psai -media -media-edge`（本机 Edge 命中 `C:\Program Files (x86)\Microsoft\Edge\Application\msedge.exe`）。
-     产物 `dev/media/out/edge-matrix.png`（45,607 字节，1440×1008，与本项目矩阵截图同尺寸）——**本地产物，不入库**（决策 5）。
+     产物 `dev/media/out/edge-matrix.png`（45,607 字节，1440×1008，与本项目矩阵截图同尺寸）——**验收证据，入库**（决策 5 于 2026-10-07 修订后的口径）。
    - **工具侧现状（必须说清）**：`runEdgeComparison`（`cmd/psai/mediaprobe.go:1885-1901`）**只把矩阵页交给
      Edge 截一张图，不做任何等级判定**；日志原文即「已采集 …（等级对照需人工复核或后续扩展）」。
      因此 **「Edge 等级」列目前并不存在**，报告里也没有 Edge 行（`grep -c Edge dev/media/out/report.md` → 0）。
@@ -685,7 +695,7 @@ func (wv *WebView) SetResourcePolicy(p ResourcePolicy)
      **全部 < 0.10**。⇒ **本项目 Browser 配置与 Edge 在 96 格上逐格一致（0 差异），"不低于 Edge"成立。**
      对照的判定口径是"有内容/空白 + 内容量"，不是逐像素相等（两端的抗锯齿/取整必然有亚像素差）；
      若要升级为"Edge 等级列"，属于 `runEdgeComparison` 的功能扩展（本轮**未做**）。
-   - **对照脚本（本地产物，不入库；正文如下，供第三方复现）**：
+   - **对照脚本（本地临时工具、未入库；正文如下，供第三方复现）**：
 
      ```python
      import json, re
@@ -1002,18 +1012,22 @@ func (wv *WebView) SetResourcePolicy(p ResourcePolicy)
 
 | 编号 | 是什么 | 影响 | 拍板 | 状态（2026-10-07 实测） | 证据去向 |
 |---|---|---|---|---|---|
-| **Q1** | 是否跑一次 `-media-edge`、产出 Edge 对照基线 | 决策 2 的 Edge 双端对照、§8.3 第 2 条「引擎等级**不低于** Edge 等级」**此前从未真正执行** | **B（跑一次）** | ✅ **已执行**。`cmd/psai -media -media-edge` 跑通，Edge 截图 `dev/media/out/edge-matrix.png`（本地产物、不入库）。程序化逐格对照 **96 格 0 差异**：Edge 有内容而本项目空白 **0 格**、本项目有内容而 Edge 空白 **0 格**；12 个空格**全部是不可见的 `<audio>`**；84 个共有内容格的最大比例差 **0.010** ⇒「不低于 Edge」**实测成立**（逐格一致）。⚠ 工具侧 `runEdgeComparison` **只截图、不产 Edge 等级列**，故「等级对照」仍属人工/程序化 | §8.3 第 2 条「Edge 对照实测」（含对照脚本正文） |
+| **Q1** | 是否跑一次 `-media-edge`、产出 Edge 对照基线 | 决策 2 的 Edge 双端对照、§8.3 第 2 条「引擎等级**不低于** Edge 等级」**此前从未真正执行** | **B（跑一次）** | ✅ **已执行**。`cmd/psai -media -media-edge` 跑通，Edge 截图 `dev/media/out/edge-matrix.png`（**验收证据，入库**；决策 5 于 2026-10-07 修订后）。程序化逐格对照 **96 格 0 差异**：Edge 有内容而本项目空白 **0 格**、本项目有内容而 Edge 空白 **0 格**；12 个空格**全部是不可见的 `<audio>`**；84 个共有内容格的最大比例差 **0.010** ⇒「不低于 Edge」**实测成立**（逐格一致）。⚠ 工具侧 `runEdgeComparison` **只截图、不产 Edge 等级列**，故「等级对照」仍属人工/程序化 | §8.3 第 2 条「Edge 对照实测」（含对照脚本正文） |
 | **Q2** | `TC-M-603` WebAudio（`AudioContext` / `decodeAudioData`） | 音频**输出**链路已闭环（A3，L4-S），但 WebAudio API 完全缺失 ⇒ 依赖它的库（可视化、混音）不可用 | **D（先侦查）** | ✅ **侦查完成、未实施**。全仓 Go 侧零命中；最小面（构造器 + `decodeAudioData` 出 buffer + 特性检测可过）**≈550–810 行**（含测试），复用现有宿主解码与注入模式；唯一真缺口 = `engine/js/jsc` 无「创建 Float32Array」的公开方法；完整音频图 ≈3000–6000 行（高风险） | §9.6「WebAudio 最小面侦查」 |
 | **Q3** | `TC-M-604` 环回录音 | 本机无采集设备 ⇒ 用例恒跳过；「跳过口径」在不同轮次写法不一致 | **A+C（保持现状 + 口径统一）** | ✅ **已完成**。实现侧本就是 `SKIP(no-loopback)`（无设备 / 无 ffmpeg 分支）；文档 **4 处**旧写法 `mismatch` 已统一（`media-format-verification-plan.md` 2 处、`implementation-path.md` 2 处）+ 项目记忆 1 处；全仓 grep 旧写法 **0 残留**。判定语义不变（仍是**跳过**，不是通过）。★ 本机 2026-10-07 实测**有**候选设备（Voicemeeter Out B3，输入未路由）⇒ 记 `mismatch`，属第三种状态 | §9.6「判据 B 跳过口径」、§3.3 TC-M-604 |
 | **Q4** | `wb-ui/webkit` 3 个 pre-existing 失败 | 单测基线**非全绿**，影响「验收不新增失败」的解读 | **B（只读侦查）** | ✅ **侦查完成、未修**。三条各给出测试名/断言原文/根因假设/风险/建议：①按钮字形只命中一行像素 ⇒ 测量脆性；②`14.8281/13.0 = 1.1406` = Segoe UI 的 normal 行距 ⇒ 断言口径过窄；③`:checked` 读 attribute 而非 IDL 状态（②③ 均指向「测试期望/口径」而非引擎缺陷） | `docs/TECH_DEBT.md`「三条失败的逐条侦查」 |
 | **Q5** | 门禁是否重构 | `loadExternalResource` 与 `MediaResourceAllowed` 是**两份平行判定**，有漂移风险 | **A（挂账）** | ✅ **已登记挂账、未重构** | §9.9「挂账登记」 |
 | **Q6** | 单测纪律（每轮是否纳入全量 `go test`） | 只跑定向测试可能漏掉回归 | **B（每轮纳入）+ D（固化入口）** | ✅ **已完成**。`cgo_env.bat` 新增 `test-all`，并**强制 `GOWORK=off`**（修掉 workspace 损坏时 `go list -m` 静默失败）；本轮实跑 **ok 28 包 + FAIL 1 包（`wb-ui/webkit`，3 用例）+ 67 无测试 = 96 包**，**失败清单未增** | §6.4「环境前提」、§8.3 第 4 条 |
 | **Q7** | 判据相关两处 | ① `corrupt.png` 在 `DenyExternal` 下 L0 的**备注文案**与实际路径不符（判定行为本身正确）；② 采样伪影已累积到第 8 处 | **B（只修 ① 备注文案）** | ✅ **①已完成**：`judgeCell` 的 `broken` 分支改为**优先** `mediaDenialNote` ⇒ `DenyExternal × file/rel` 的 corrupt.png 备注从「失败路径……契约缺陷」更正为「资源策略 deny-external 拒绝该引用（预期，非缺陷）」；重跑 `-media` 后**等级全 L0 不变、与基线一致**。②**未做**（属另一轮） | §10 本行 + `cmd/psai/mediaprobe.go` 的 `judgeCell` |
-| **Q8** | 文档剩余范围 | 收敛到两项，本轮已按授权就地处置 | — | ✅ 原地处置（细目见下）：**丙10 已消除**、**乙4 已标注待确认** | §3.4、§0.2 |
+| **Q8** | 文档剩余范围 | 收敛到两项，本轮已按授权就地处置 | — | ✅ 原地处置（细目见下）：**丙10 已消解（2026-10-07 按实施口径修订决策 5）**、**乙4 已标注待确认** | §3.4、§0.2 |
 
 > **Q8 细目（两项的处置依据）**
-> - **丙10（口径冲突，已消除）**：决策 5 是「不提交样本与报告，仓库不动」（§0.1、§9.1），§3.4 原句与之
->   冲突；已以决策 5 为准就地改写，**未新增任何决策**。
+> - **丙10（口径冲突，已消解）**：原记决策 5 =「不提交样本与报告，仓库不动」（§0.1、§9.1），但该句
+>   **与实施不符**——`c5fe57d`（2026-10-07 05:26）起报告/四配置截图/逐格几何已实际入库（`.gitignore`
+>   开例外），此后 20+ 次产物提交沿用。2026-10-07 核查提交史后**按实施口径修订决策 5**：
+>   「样本不入库（可再生中间物）；报告与四配置截图作为验收证据入库」，§0.1、§3.4、§6.2、§6.4、§8.2、
+>   §8.3 与 `.gitignore` 注释全部同步改写（理由与重跑必出 diff 的副作用见 §6.2 第 1 条）。
+>   **本轮未新增任何新决策项**，只把同一决策项的口径统一到实际执行的那一侧。
 > - **乙4（归属划分，已标注待确认）**：§0.2「格式能力等级验证另开独立项目」只在会话记录里有转写
 >   （§9.1 决策 7），**没有用户对该划分本身的直接拍板记录** ⇒ 已加「待用户确认」标注，**未擅自更改**。
 >   ⚠ 本轮拍板（方案 A）**不涉及**该归属划分，标注保持原样。
@@ -1035,4 +1049,4 @@ func (wv *WebView) SetResourcePolicy(p ResourcePolicy)
 | **`dev/media/out/matrix-*.png`**、`geom-*.json` | 四配置静止态与播放态截图 + 逐格几何/IDL/事件采集（证据） |
 | **`cmd/psai/mediaprobe.go`** | `-media` 探针实现：矩阵页构建、判定器、报告、基线比对（入库） |
 
-> 注（决策 5/6）：以上路径全部位于 `_temp/`（已被 git 忽略），**不随仓库提交**。落地时改为「脚本入库 + 样本本机生成、报告仅本地产物」（§6.2、§6.4）；本表仅记录设计阶段的证据出处。
+> 注（决策 5/6）：以上路径全部位于 `_temp/`（已被 git 忽略），**不随仓库提交**。落地后改为「脚本入库 + 样本本机生成（不入库）+ 报告与四配置截图入库（验收证据）」（§6.2、§6.4）；本表仅记录设计阶段的证据出处。
